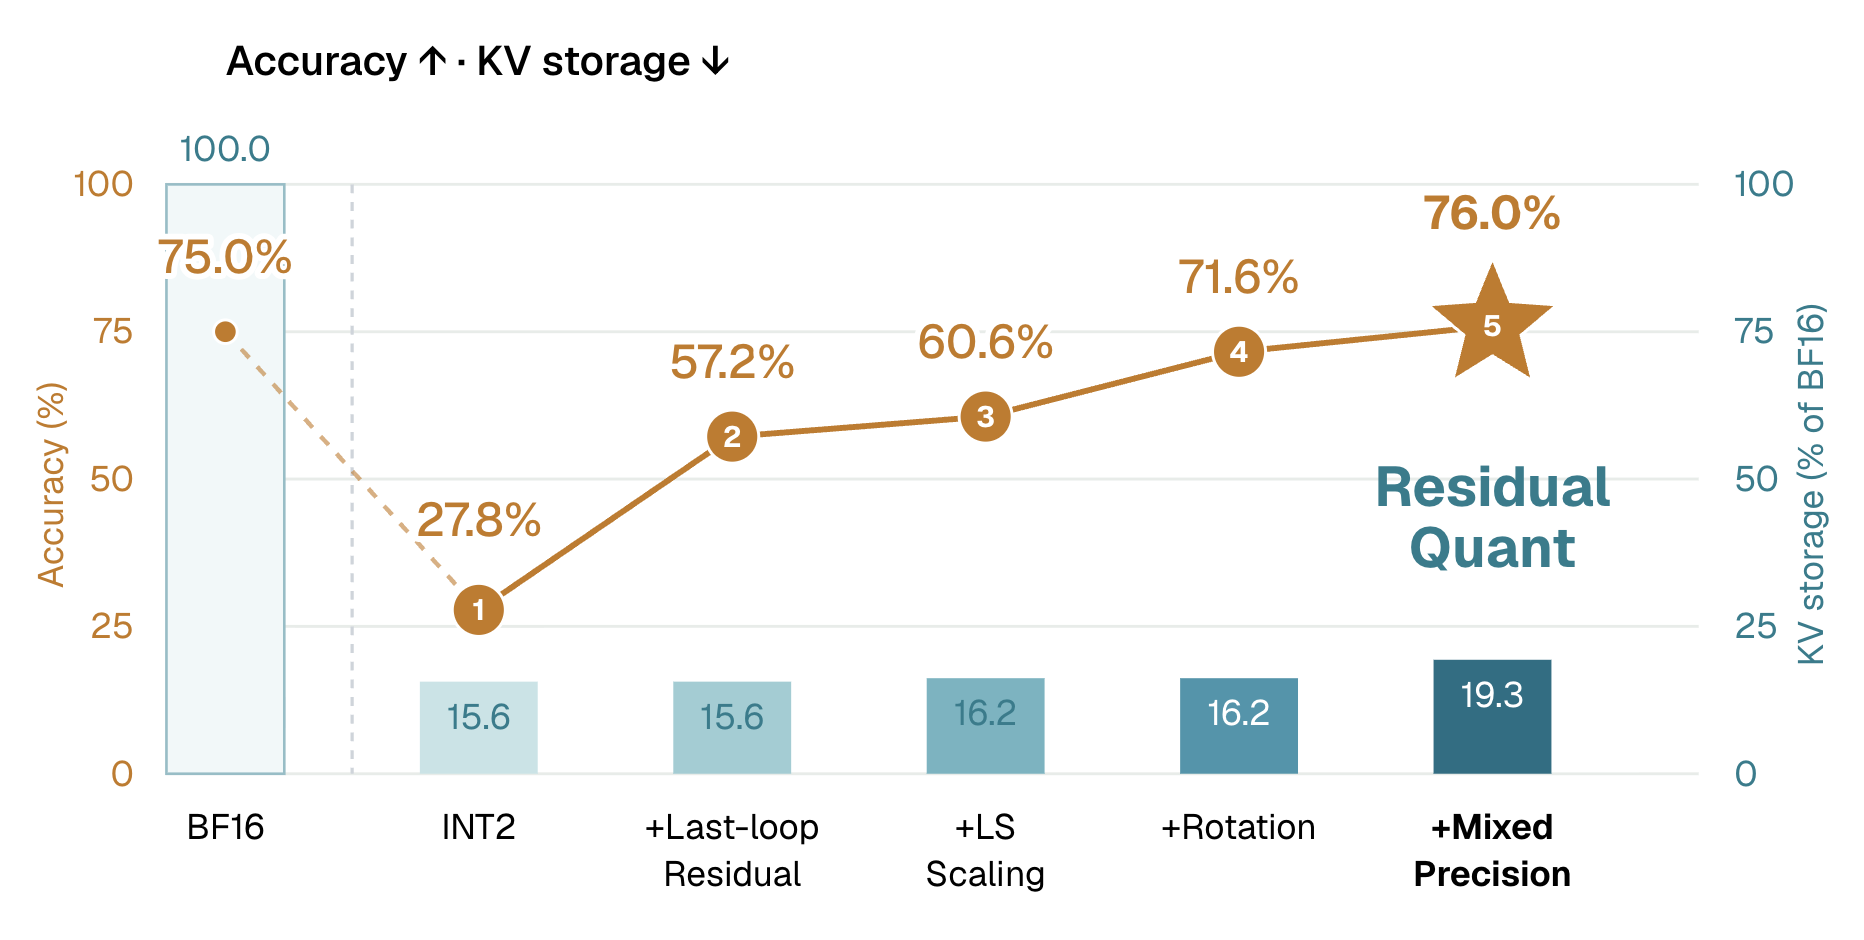
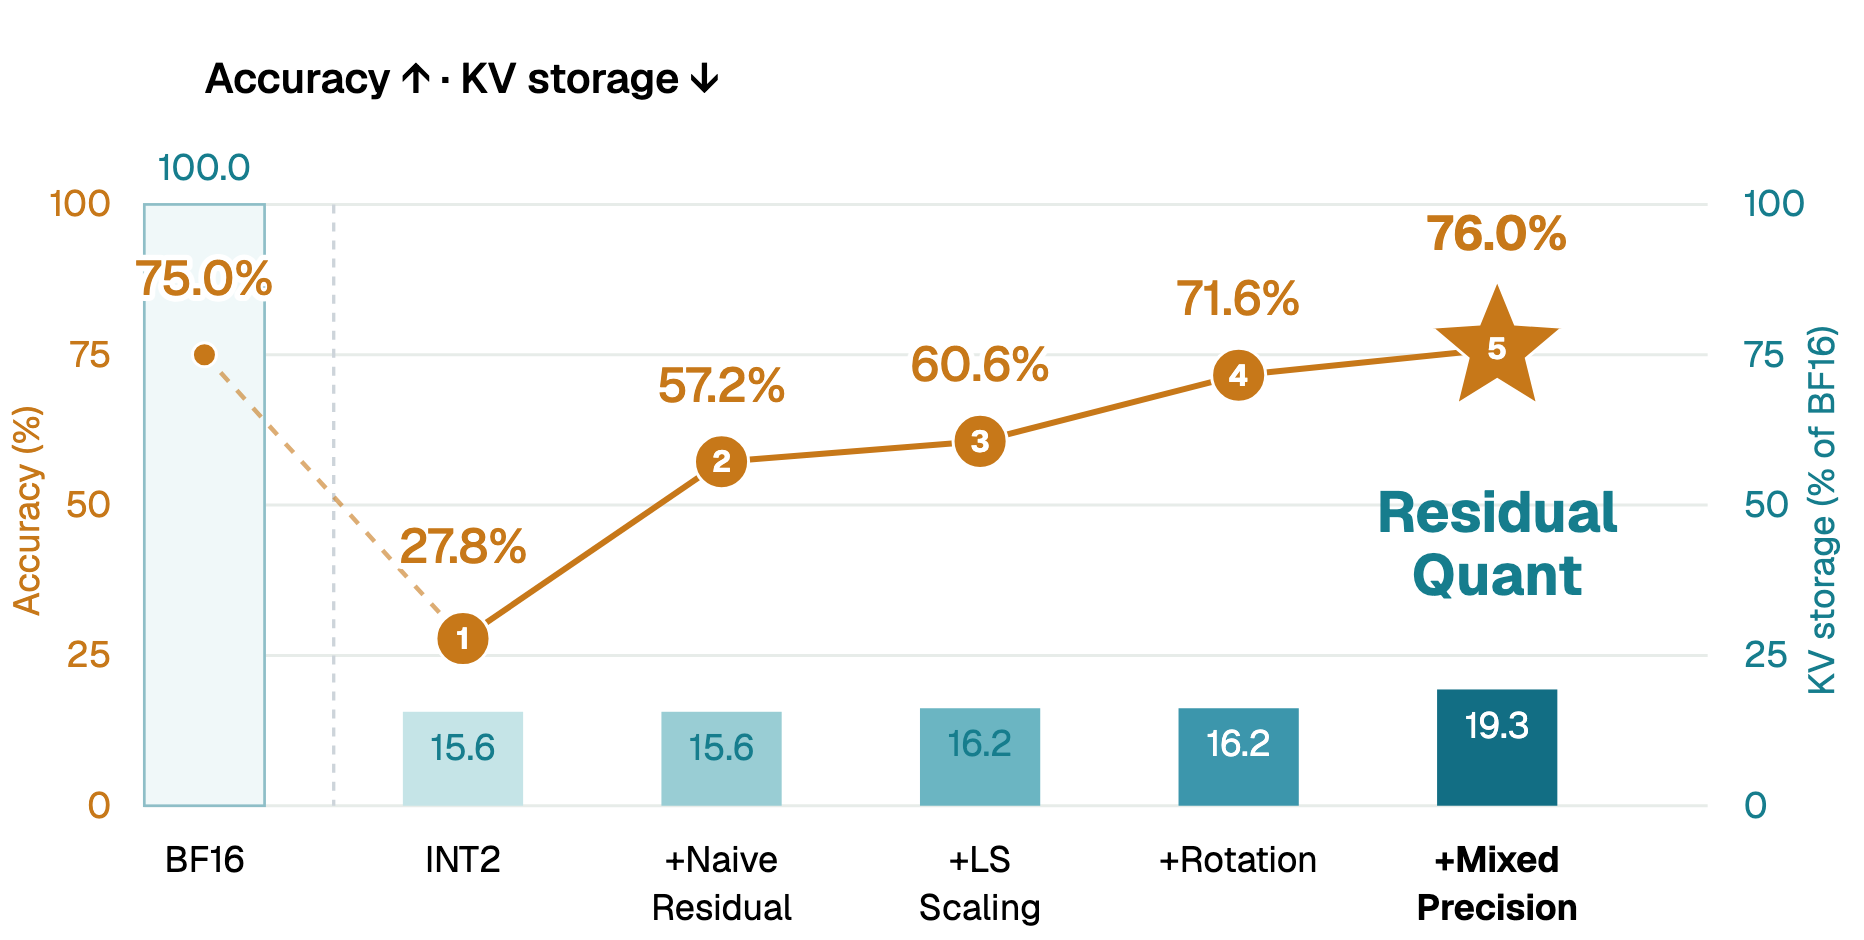
Re-render the OG teaser and use the paper's peak throughput ratios
- teaser-published.png re-rendered from the Figure 1 data with the
  "+Naive Residual" label (headless Chrome, same SVG styling, 1864x940).
- Throughput panels read the peak gains from appendix Table 12
  (3.68x / 2.73x / 3.35x / 5.38x) instead of recomputing them from the
  rounded Table 11 timings, so 8k shows 3.35x as in the paper.

diff --git a/components/residualquant-throughput-figure.tsx b/components/residualquant-throughput-figure.tsx
@@ -14,6 +14,7 @@ function ContextPanel({ context, phase }: { context: number; phase: number }) {
   const residualBatch = residual[residual.length - 1].batch;
   const baselinePeak = Math.max(...baseline.map(row => row.throughput));
   const residualPeak = Math.max(...residual.map(row => row.throughput));
+  const peakRatio = data.peakRatios[String(context) as keyof typeof data.peakRatios] ?? residualPeak / baselinePeak;
   const lastPhase = Math.log2(residualBatch);
   const complete = phase >= lastPhase;
   const batch = BATCHES[Math.max(0, phase)];
@@ -22,8 +23,8 @@ function ContextPanel({ context, phase }: { context: number; phase: number }) {
   const ty = (value: number) => 236 - value / maxY * 198;
   const ticks = BATCHES.filter(value => value <= residualBatch);
   return <div className={`rq-context-panel ${complete ? 'is-complete' : ''}`} data-context={context} data-complete={complete}>
-    <div className="rq-context-heading"><h3>{context / 1024}k context</h3><div>{complete ? <><strong>{(residualPeak / baselinePeak).toFixed(2)}×</strong><span>peak throughput</span></> : <><strong>Batch {Math.min(batch, residualBatch)}</strong><span>decode throughput</span></>}</div></div>
-    <svg viewBox="0 0 320 292" role="img" aria-label={`${context / 1024}k context: BF16 up to batch ${baselineBatch}, ResidualQuant up to batch ${residualBatch}, ${(residualPeak/baselinePeak).toFixed(2)} times peak throughput.`}>
+    <div className="rq-context-heading"><h3>{context / 1024}k context</h3><div>{complete ? <><strong>{peakRatio.toFixed(2)}×</strong><span>peak throughput</span></> : <><strong>Batch {Math.min(batch, residualBatch)}</strong><span>decode throughput</span></>}</div></div>
+    <svg viewBox="0 0 320 292" role="img" aria-label={`${context / 1024}k context: BF16 up to batch ${baselineBatch}, ResidualQuant up to batch ${residualBatch}, ${peakRatio.toFixed(2)} times peak throughput.`}>
       {[0,1,2,3,4].map(index => {
         const value = maxY / 4 * index;
         return <g key={index}><line x1="44" x2="292" y1={ty(value)} y2={ty(value)} className="rq-progress-grid" /><text x="36" y={ty(value)+4} textAnchor="end">{value}</text></g>;
